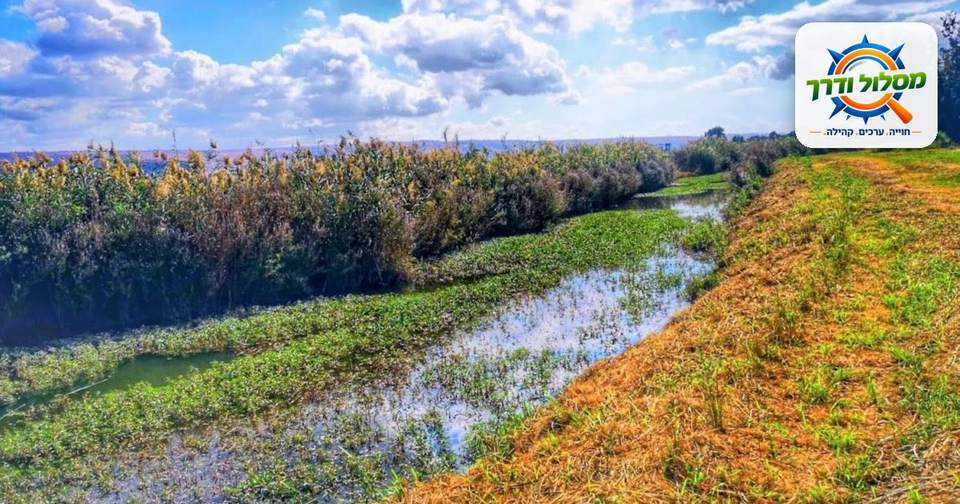
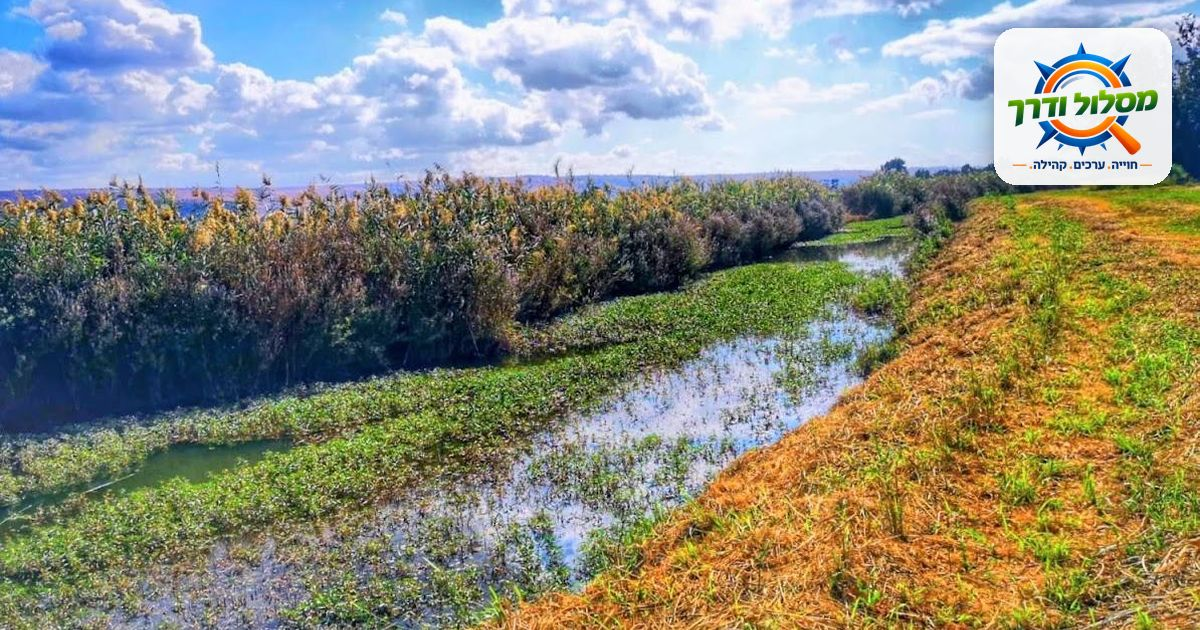
Back to original 1200x630 share images; keep Eshed's soldiers/seniors choice
Claude-Session: https://claude.ai/code/session_01EeqeYiZ5VECgk1dfuzWJxN

Changed region(s): [[0.8438, 0.0893, 0.9688, 0.2679]]

diff --git a/tanach-tashach.html b/tanach-tashach.html
@@ -10,8 +10,8 @@
 <meta property="og:description" content="בעקבות גיבורי וגיבורות העמק: 5 סיורים בעמק יזרעאל ובגלבוע, כל אחד עומד בפני עצמו. יש מסלול לחיילים, למשפחות, לגמלאים, למחפשי אתגר ולזוגות.">
 <meta property="og:url" content="https://maslul-derech.co.il/tanach-tashach.html">
 <meta property="og:image" content="https://maslul-derech.co.il/share-valley-view.jpg">
-<meta property="og:image:width" content="1080">
-<meta property="og:image:height" content="567">
+<meta property="og:image:width" content="1200">
+<meta property="og:image:height" content="630">
 <meta name="twitter:card" content="summary_large_image">
 <link rel="canonical" href="https://maslul-derech.co.il/tanach-tashach.html">
 </head><body>

diff --git a/celebrate.html b/celebrate.html
@@ -10,8 +10,8 @@
 <meta property="og:description" content="יש לכם סיבה לחגוג? יש לנו מסלול. יום הולדת עגול, שנת בר/בת מצווה, בעקבות ספר, שורשים או יום גיבוש. טיול שנבנה סביב הסיפור שלכם.">
 <meta property="og:url" content="https://maslul-derech.co.il/celebrate.html">
 <meta property="og:image" content="https://maslul-derech.co.il/share-celebrate-hero.jpg">
-<meta property="og:image:width" content="1080">
-<meta property="og:image:height" content="567">
+<meta property="og:image:width" content="1200">
+<meta property="og:image:height" content="630">
 <meta name="twitter:card" content="summary_large_image">
 <link rel="canonical" href="https://maslul-derech.co.il/celebrate.html">
 </head><body>

diff --git a/activities.html b/activities.html
@@ -10,8 +10,8 @@
 <meta property="og:description" content="רוצים להוסיף לטיול עוד משהו? סדנת צילום בסלולר, בינגו, יצירה מהטבע, יוגה בנוף, ארוחה בשטח, ובעצם כל מה שהקבוצה רוצה.">
 <meta property="og:url" content="https://maslul-derech.co.il/activities.html">
 <meta property="og:image" content="https://maslul-derech.co.il/share-exp-hero.jpg">
-<meta property="og:image:width" content="960">
-<meta property="og:image:height" content="504">
+<meta property="og:image:width" content="1200">
+<meta property="og:image:height" content="630">
 <meta name="twitter:card" content="summary_large_image">
 <link rel="canonical" href="https://maslul-derech.co.il/activities.html">
 </head><body>

diff --git a/seniors.html b/seniors.html
@@ -10,8 +10,8 @@
 <meta property="og:description" content="יום נינוח ומלא עניין: תצפיות מרהיבות בגלבוע, סג'רה ומוזיאונים בעמק. הליכה קצרה ונוחה, קצב רגוע והרבה סיפורים טובים.">
 <meta property="og:url" content="https://maslul-derech.co.il/seniors.html">
 <meta property="og:image" content="https://maslul-derech.co.il/share-sejera-field.jpg">
-<meta property="og:image:width" content="960">
-<meta property="og:image:height" content="504">
+<meta property="og:image:width" content="1200">
+<meta property="og:image:height" content="630">
 <meta name="twitter:card" content="summary_large_image">
 <link rel="canonical" href="https://maslul-derech.co.il/seniors.html">
 </head><body>

diff --git a/families.html b/families.html
@@ -10,8 +10,8 @@
 <meta property="og:description" content="יום כיף לכל המשפחה: הסודות של תל יזרעאל עם סדנת יצירה מהטבע לילדים, או מסלולי מים מאתגרים בגלבוע ובנחל תבור.">
 <meta property="og:url" content="https://maslul-derech.co.il/families.html">
 <meta property="og:image" content="https://maslul-derech.co.il/share-families-log.jpg">
-<meta property="og:image:width" content="880">
-<meta property="og:image:height" content="462">
+<meta property="og:image:width" content="1200">
+<meta property="og:image:height" content="630">
 <meta name="twitter:card" content="summary_large_image">
 <link rel="canonical" href="https://maslul-derech.co.il/families.html">
 </head><body>

diff --git a/tasting.html b/tasting.html
@@ -10,8 +10,8 @@
 <meta property="og:description" content="שוק, טעימות וסיפור ישראלי: חוויה מגבשת לחיילים ולמפקדים. כשעה וחצי, בכל הארץ. ספק מוכר של משרד הביטחון.">
 <meta property="og:url" content="https://maslul-derech.co.il/tasting.html">
 <meta property="og:image" content="https://maslul-derech.co.il/share-tasting-ai-hummus.jpg">
-<meta property="og:image:width" content="1080">
-<meta property="og:image:height" content="567">
+<meta property="og:image:width" content="1200">
+<meta property="og:image:height" content="630">
 <meta name="twitter:card" content="summary_large_image">
 <link rel="canonical" href="https://maslul-derech.co.il/tasting.html">
 </head><body>

diff --git a/soldiers.html b/soldiers.html
@@ -10,8 +10,8 @@
 <meta property="og:description" content="גאוות יחידה מתחילה בשטח: בעקבות גיבורי העמק בתל יזרעאל ובעין יזרעאל, ומסלולי שטח בגלבוע ובנחל תבור.">
 <meta property="og:url" content="https://maslul-derech.co.il/soldiers.html">
 <meta property="og:image" content="https://maslul-derech.co.il/share-soldiers-water.jpg">
-<meta property="og:image:width" content="880">
-<meta property="og:image:height" content="462">
+<meta property="og:image:width" content="1200">
+<meta property="og:image:height" content="630">
 <meta name="twitter:card" content="summary_large_image">
 <link rel="canonical" href="https://maslul-derech.co.il/soldiers.html">
 </head><body>

diff --git a/sejera.html b/sejera.html
@@ -10,8 +10,8 @@
 <meta property="og:description" content="איפה בן גוריון הצעיר חרש את האדמה ושמר על המושבה? סיור מורשת בסג'רה, כולל כניסה לבסיס חוות השומר.">
 <meta property="og:url" content="https://maslul-derech.co.il/sejera.html">
 <meta property="og:image" content="https://maslul-derech.co.il/share-sejera-field.jpg">
-<meta property="og:image:width" content="960">
-<meta property="og:image:height" content="504">
+<meta property="og:image:width" content="1200">
+<meta property="og:image:height" content="630">
 <meta name="twitter:card" content="summary_large_image">
 <link rel="canonical" href="https://maslul-derech.co.il/sejera.html">
 </head><body>

diff --git a/contact.html b/contact.html
@@ -10,8 +10,8 @@
 <meta property="og:description" content="מוכנים לצאת למסע? ספרו לי מי אתם ומה מתאים לכם, ואחזור אליכם עם רעיון. ווטסאפ 052-9456936 או טופס פנייה.">
 <meta property="og:url" content="https://maslul-derech.co.il/contact.html">
 <meta property="og:image" content="https://maslul-derech.co.il/share-wetland.jpg">
-<meta property="og:image:width" content="960">
-<meta property="og:image:height" content="504">
+<meta property="og:image:width" content="1200">
+<meta property="og:image:height" content="630">
 <meta name="twitter:card" content="summary_large_image">
 <link rel="canonical" href="https://maslul-derech.co.il/contact.html">
 </head><body>

diff --git a/tavor.html b/tavor.html
@@ -10,8 +10,8 @@
 <meta property="og:description" content="מסלול מים מעגלי של כ־7 ק&quot;מ בקניון בזלת: גבים, מפל, ובחורף ובאביב גם שטיחי תורמוסים. למיטיבי לכת.">
 <meta property="og:url" content="https://maslul-derech.co.il/tavor.html">
 <meta property="og:image" content="https://maslul-derech.co.il/share-tavor-hero.jpg">
-<meta property="og:image:width" content="880">
-<meta property="og:image:height" content="462">
+<meta property="og:image:width" content="1200">
+<meta property="og:image:height" content="630">
 <meta name="twitter:card" content="summary_large_image">
 <link rel="canonical" href="https://maslul-derech.co.il/tavor.html">
 </head><body>

diff --git a/index.html b/index.html
@@ -10,8 +10,8 @@
 <meta property="og:description" content="מורה דרך מוסמך, בכל הארץ: משפחות, גיל שלישי, ועדים, נוער, חיילים ותיירות נכנסת. חוויה. ערכים. קהילה.">
 <meta property="og:url" content="https://maslul-derech.co.il/">
 <meta property="og:image" content="https://maslul-derech.co.il/share-wheat-path.jpg">
-<meta property="og:image:width" content="880">
-<meta property="og:image:height" content="462">
+<meta property="og:image:width" content="1200">
+<meta property="og:image:height" content="630">
 <meta name="twitter:card" content="summary_large_image">
 <link rel="canonical" href="https://maslul-derech.co.il/">
 </head><body>
